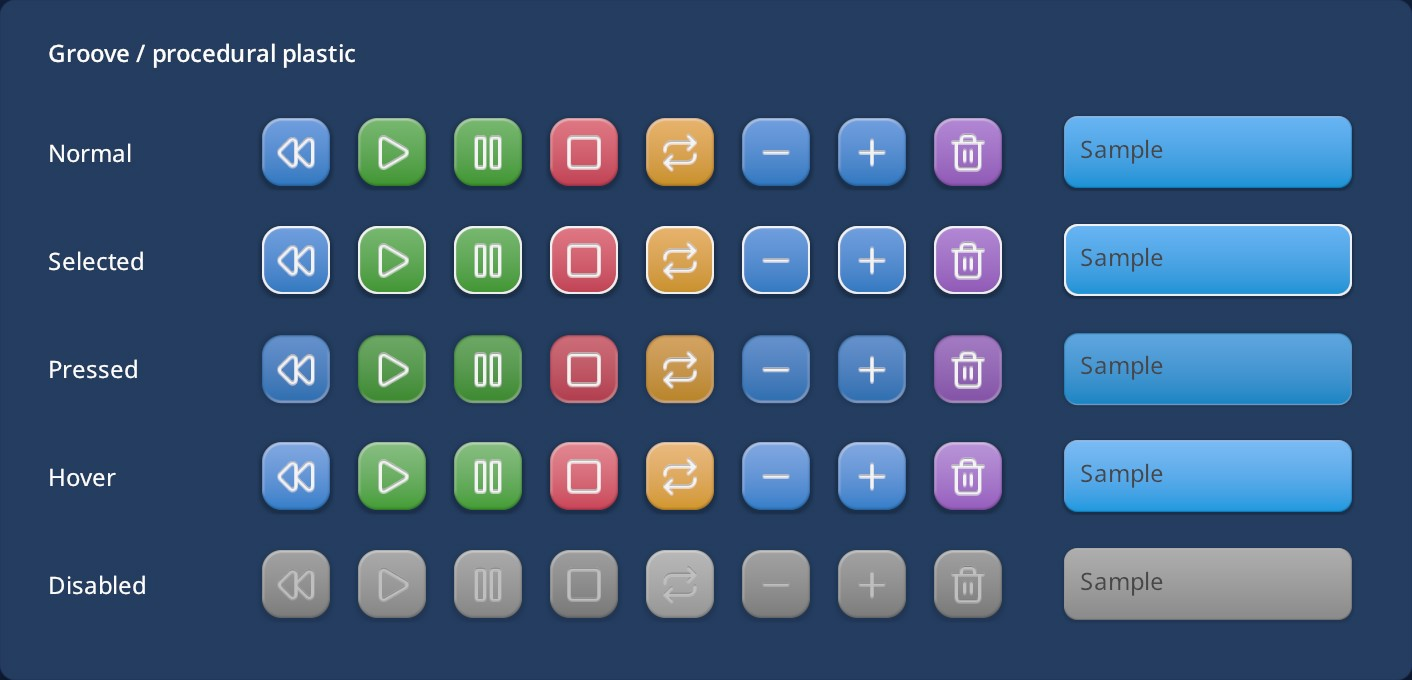
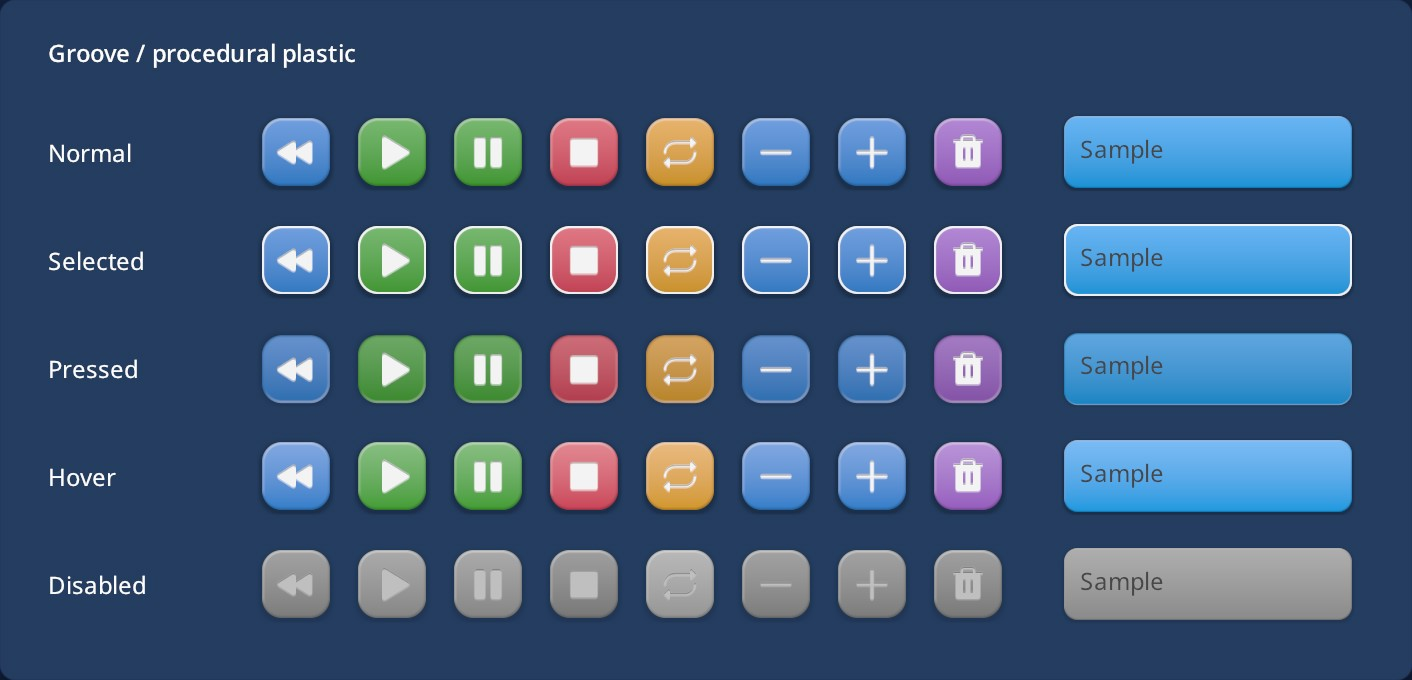
Use solid Phosphor glyphs for Groove controls

diff --git a/apps/groove/view_transport.c b/apps/groove/view_transport.c
@@ -4,15 +4,15 @@
 #include <orion/user/toolbar.h>
 
 static const toolbar_item_t kTransportItems[] = {
-  { TOOLBAR_ITEM_BUTTON,    ID_REWIND,   "lucide-rewind", 0, 0, NULL, "Rewind (Home)" },
-  { TOOLBAR_ITEM_BUTTON,    ID_PLAY,     "lucide-play", 0, 0, NULL, "Play / pause (Space)" },
-  { TOOLBAR_ITEM_BUTTON,    ID_STOP,     "lucide-square", 0, 0, NULL, "Stop" },
-  { TOOLBAR_ITEM_BUTTON,    ID_LOOP,     "lucide-repeat", 0, 0, NULL, "Loop (L)" },
+  { TOOLBAR_ITEM_BUTTON,    ID_REWIND,  "phosphor-rewind-fill",      0, 0, NULL, "Rewind (Home)" },
+  { TOOLBAR_ITEM_BUTTON,    ID_PLAY,    "phosphor-play-fill",        0, 0, NULL, "Play / pause (Space)" },
+  { TOOLBAR_ITEM_BUTTON,    ID_STOP,    "phosphor-stop-fill",        0, 0, NULL, "Stop" },
+  { TOOLBAR_ITEM_BUTTON,    ID_LOOP,    "phosphor-repeat-fill",      0, 0, NULL, "Loop (L)" },
   { TOOLBAR_ITEM_SEPARATOR, 0,          NULL,      0, 0, NULL, NULL },
-  { TOOLBAR_ITEM_BUTTON,    ID_BPM_DOWN, "lucide-minus", 0, 0, NULL, "Slower" },
-  { TOOLBAR_ITEM_BUTTON,    ID_BPM_UP,   "lucide-plus", 0, 0, NULL, "Faster" },
+  { TOOLBAR_ITEM_BUTTON,    ID_BPM_DOWN, "phosphor-minus-bold",       0, 0, NULL, "Slower" },
+  { TOOLBAR_ITEM_BUTTON,    ID_BPM_UP,  "phosphor-plus-bold",        0, 0, NULL, "Faster" },
   { TOOLBAR_ITEM_SPACER,    0,          NULL,      0, 0, NULL, NULL },
-  { TOOLBAR_ITEM_BUTTON,    ID_DELETE,   "lucide-trash-2", 0, 0, NULL, "Remove selected block (Delete)" },
+  { TOOLBAR_ITEM_BUTTON,    ID_DELETE,  "phosphor-trash-fill",       0, 0, NULL, "Remove selected block (Delete)" },
   { TOOLBAR_ITEM_SPACER,    0,          NULL,      0, TOOLBAR_ITEM_FLAG_FLEXSPACE, NULL, NULL },
   { TOOLBAR_ITEM_TEXTEDIT,  ID_SEARCH,  "search", 240, 0, NULL, "Search sounds" },
 };
@@ -20,7 +20,7 @@ static const toolbar_item_t kTransportItems[] = {
 void transport_refresh(void) {
   window_t *win = g_app->library;
   if (!win) return;
-  send_message(win, tbSetItemIcon, ID_PLAY, (void *)(g_app->song.playing ? "lucide-pause" : "lucide-play"));
+  send_message(win, tbSetItemIcon, ID_PLAY, (void *)(g_app->song.playing ? "phosphor-pause-fill" : "phosphor-play-fill"));
   send_message(win, tbSetActiveButton, g_app->song.loop ? ID_LOOP : 0, NULL);
 }
 

diff --git a/apps/groove/tests/groove_test.c b/apps/groove/tests/groove_test.c
@@ -471,7 +471,7 @@ static void test_library_transport(void) {
   toolbar_state_t *tb = toolbar_get_state(bar);
   ASSERT_EQUAL(tb->style, TOOLBAR_STYLE_PLASTIC);
   ASSERT_EQUAL(tb->strip.tex, 0);
-  ASSERT_TRUE(strcmp(tb->items[1].icon, "lucide-rewind") == 0);
+  ASSERT_TRUE(strcmp(tb->items[1].icon, "phosphor-rewind-fill") == 0);
   ASSERT_TRUE(tb->items[2].color != tb->items[3].color);
   uint32_t original_color = tb->items[2].color, color = WEB(0x2277bb);
   ASSERT_TRUE(send_message(bar, tbSetItemColor, ID_PLAY, &color));
@@ -509,7 +509,7 @@ static void test_library_transport(void) {
   dispatch_message(&event);
   event.message = kEventLeftButtonUp;
   dispatch_message(&event);
-  ASSERT_TRUE(g_app->song.playing && strcmp(tb->items[2].icon, "lucide-pause") == 0);
+  ASSERT_TRUE(g_app->song.playing && strcmp(tb->items[2].icon, "phosphor-pause-fill") == 0);
   r = tb->item_rects[4];
   event.message = kEventLeftButtonDown;
   event.x = (window_screen_x(bar) + r.x + r.w / 2) * UI_WINDOW_SCALE;

diff --git a/apps/groove/view_sheet.c b/apps/groove/view_sheet.c
@@ -152,8 +152,8 @@ static void paint_headers(window_t *win) {
     int y = track_y(win, t), rh = row_h(win);
     fill_rect(get_sys_color(brDarkEdge), R(0, y + rh - 1, HDR_W, 1));
     irect16_t m = mute_rect(win, t), s = solo_rect(win, t);
-    draw_track_toggle(m, "lucide-volume-off", g_app->song.mute[t]);
-    draw_track_toggle(s, "lucide-headphones", g_app->song.solo[t]);
+    draw_track_toggle(m, "phosphor-speaker-slash-fill", g_app->song.mute[t]);
+    draw_track_toggle(s, "phosphor-headphones-fill", g_app->song.solo[t]);
   }
 }
 

diff --git a/docs/icons.md b/docs/icons.md
@@ -41,11 +41,14 @@ color to `draw_icon16` / `draw_toolbar_icon_in_rect`.
 
 ### Procedural Groove buttons
 
-Groove uses [Lucide](https://lucide.dev) SVGs from
-`apps/groove/share/icons/lucide-*.svg`. The `lucide-` prefix avoids collisions with
+Groove uses [Phosphor](https://github.com/phosphor-icons/core) filled SVGs from
+`apps/groove/share/icons/phosphor-*.svg`. Plus and Minus use Phosphor Bold solid
+paths to avoid the square backgrounds of their Fill variants. The `phosphor-`
+prefix avoids collisions with
 the framework's global icon pool. The loader rasterizes each SVG at display
-density and caches only its alpha mask; no pre-rendered button/state atlas is
-loaded or generated. License notices remain in `LUCIDE-LICENSE` beside the SVGs.
+density and the shader uses its alpha mask; no pre-rendered button/state atlas is
+loaded or generated. License notices remain in `PHOSPHOR-LICENSE`;
+`PHOSPHOR-SOURCE.txt` records the upstream revision.
 
 `TOOLBAR_STYLE_PLASTIC` draws the coloured surface, bevel, small shadow and white
 recessed glyph together in the procedural shader. Per-button `color` values and
